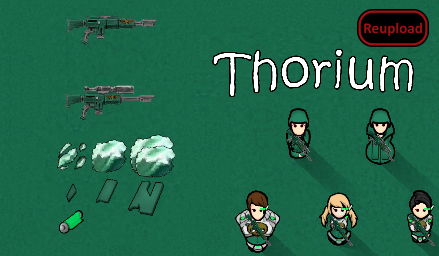
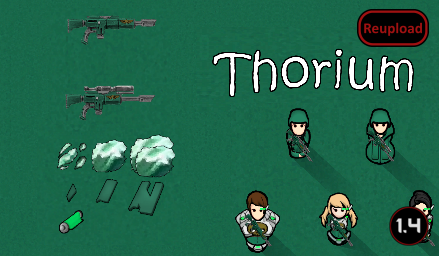
Last update, added end-of-life message

Changed region(s): [[0.8884, 0.7812, 0.9772, 0.9688]]

diff --git a/README.md b/README.md
@@ -9,7 +9,7 @@ https://steamcommunity.com/sharedfiles/filedetails/?id=2008446070
 - Added the 2 previously unfinished thorium turrets
 - Removed the dependency on Jecs Tools in the 1.3-version
 
-![Image](https://i.imgur.com/pufA0kM.png)
+![Image](https://i.imgur.com/KFjAmff.png)
 
 	
 ![Image](https://i.imgur.com/Z4GOv8H.png)
@@ -76,11 +76,13 @@ Suggestions are welcome! I hope You'll like my mod.
 
 -  See if the the error persists if you just have this mod and its requirements active.
 -  If not, try adding your other mods until it happens again.
--  Post your error-log using https://steamcommunity.com/workshop/filedetails/?id=818773962]HugsLib and command Ctrl+F12
+-  Post your error-log using https://steamcommunity.com/workshop/filedetails/?id=818773962]HugsLib or the standalone https://steamcommunity.com/sharedfiles/filedetails/?id=2873415404]Uploader and command Ctrl+F12
 -  For best support, please use the Discord-channel for error-reporting.
 -  Do not report errors by making a discussion-thread, I get no notification of that.
 -  If you have the solution for a problem, please post it to the GitHub repository.
+-  Use https://github.com/RimSort/RimSort/releases/latest]RimSort to sort your mods
 
 
 
+https://steamcommunity.com/sharedfiles/filedetails/changelog/2450847598]![Image](https://img.shields.io/github/v/release/emipa606/ThoriumMod?label=latest%20version&style=plastic&color=9f1111&labelColor=black)
 
